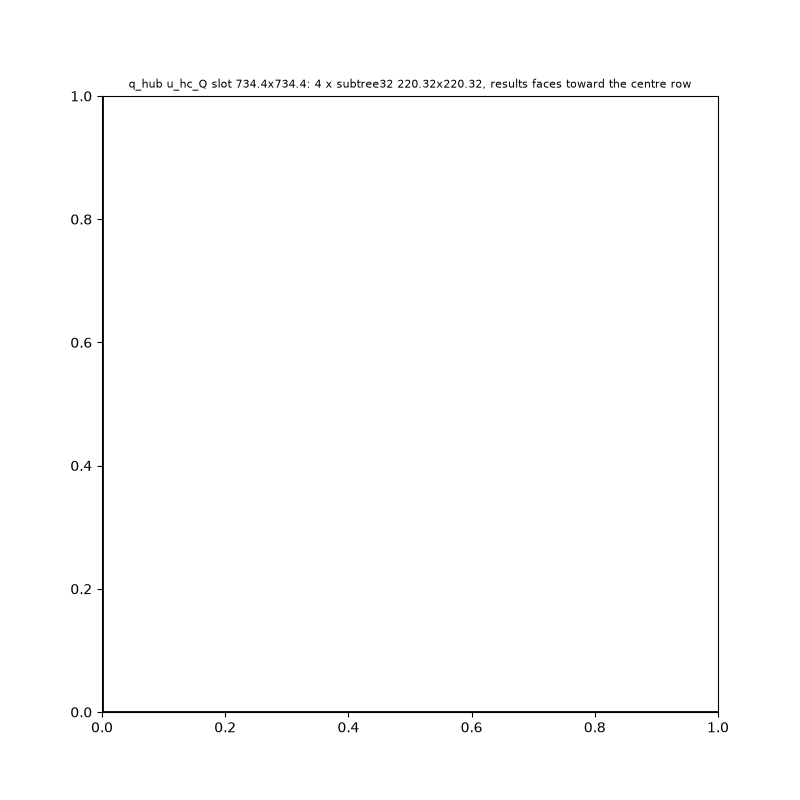
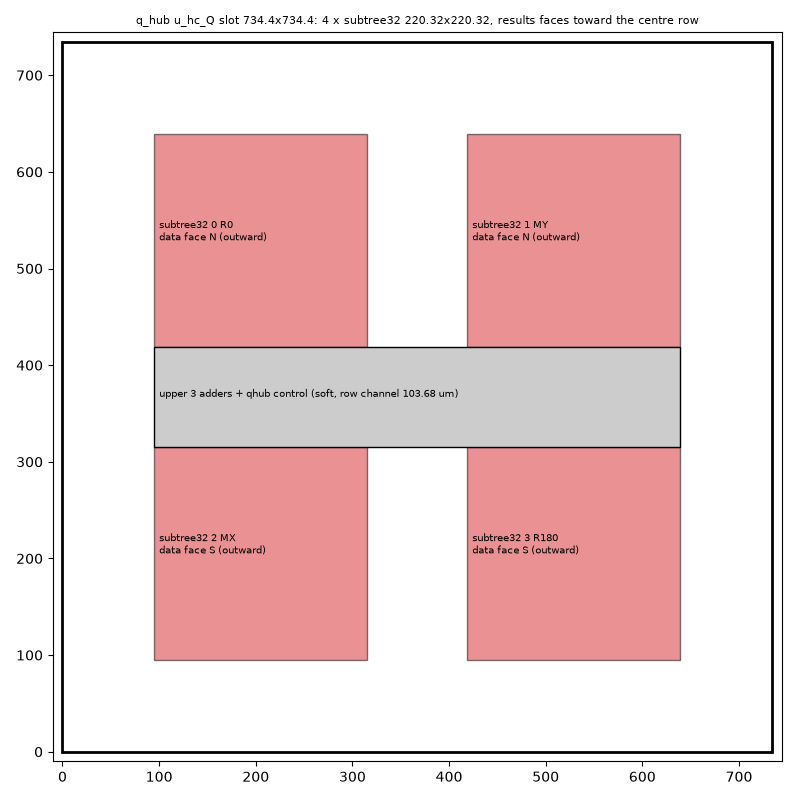
HBM-W128: CTS review renders + hold gates, DRST 3k check (gate PASS, mutants caught), TOK-HBM bind note
pair_core post-CTS hold gate FAIL -116 ps (face flop 520 ps vs macro 288 ps latency);
first_core/subtree32 PASS. No route (GEOM review pending).

diff --git a/physical/die_plan/hbm_arch_cores/w128/render_w128.py b/physical/die_plan/hbm_arch_cores/w128/render_w128.py
@@ -106,6 +106,7 @@ def main(out):
     ax.add_patch(Rectangle((m, m + S), Q - 2 * m, Q - 2 * (m + S), fc="0.8", ec="k"))
     ax.text(m + 5, Q / 2, "upper 3 adders + qhub control (soft, row channel 103.68 um)", fontsize=7)
     ax.set_title(f"q_hub u_hc_Q slot {Q}x{Q}: 4 x subtree32 {S}x{S}, results faces toward the centre row", fontsize=8)
+    ax.set_xlim(-10, Q + 10); ax.set_ylim(-10, Q + 10)
     ax.set_aspect("equal"); fig.tight_layout(); fig.savefig(out / "context_qhub.png", dpi=100); plt.close(fig)
     (out / "summary.json").write_text(json.dumps(dict(views=summary, bank_context=chk, column_height_um=round(tot, 2)), indent=1) + "\n")
     print(chk, tot)

diff --git a/results/hbm_hc128_physical_1025/README.md b/results/hbm_hc128_physical_1025/README.md
@@ -30,3 +30,31 @@ Branch `claude/hbm-cores-w128-1025`.
   - Each has two mutants: valid bit unreset, and output data bit flipped.
   - Results are in `drst_fix/drst_check.json` when collected.
 - **Views and kits** (`physical/die_plan/hbm_arch_cores/w128/`): pin tables were derived top-down from the B2o Rh bank column and q_hub slot (see `mk_w128_views.py` docstring and `geom/`). Kits use `gen_core_kit_hbm.py` with the face shell on: +1 in / +1 out cycle on every crossing.
+
+### HBM-W128 CTS review + native bind note (2026-10-25 05:09 PDT)
+
+Place+CTS (GOAL=cts, review image only, no route):
+
+| core | cells (placed) | fill of free | bins>0.8 | pin->reg p90/max um | OT_HOLD_GATE (post-CTS, pre-repair) |
+|---|---|---|---|---|---|
+| ot_hbm_hc_bank128_pair_core@ba77076d4cc8 (x120) | 122,020 (synth 152,716) | 0.49 | 0 | 6.8 / 11.0 | **FAIL** wns -116.46 ps, 1827 reg2reg ep; ports -235.7 |
+| ot_hbm_hc_bank128_pair_first_core@0c39789d46b1 (x8) | synth 139,823 | 0.32 | 0 | 7.3 / 9.7 | PASS wns -63.35, 1070 ep |
+| ot_hbm_hc_subtree32_core@3abde8dae72d (x4) | synth 135,546 | 0.28 | 0 | 8.1 / 11.9 | PASS wns -14.57, 314 ep |
+
+pair_core hold FAIL: CTS skew report shows a N-face write_addr face flop at 519.8 ps
+source latency vs SRAM macro clk 288.5 ps (231 ps skew). Structural fix before route:
+macro-clock latency balance against the 3-face (W/E/N) face-flop ring (pair_skew / macro
+insertion), not hold-buffer padding. Needs a pair_core re-kit; first_core passes with -63.
+
+DRST check: results drst_fix/drst_check.json (gate PASS; MUT_NORST/MUT_DATA caught;
+SAT tempinduct inconclusive, killed).
+
+TOK-HBM native-bind note (pin/face cycles; native NQ4/NQ2 root views NOT changed):
+- every hardened pair adds the face shell: +1 in, +1 out cycle per crossing.
+- sum chain: +2 cycles per bank hop UNLESS the native bank sets the sum-bus CPI/CPO
+  pin registers to 0 (shell flops take their place) while keeping descriptor CPI/CPO;
+  then net added = 0 per hop. Recommended.
+- write path (write_addr/data/we): +1 (shell in-flop, no matching native register to drop).
+- qhub: 4 x subtree32 (2x2 in the old 734.4^2 W64 slot + 103.68 soft centre row);
+  +2 cycles on the reduction (shell in+out) unless the qhub data pin register is dropped.
+- bank context: sum hop 129.6 um (380.16 bank) / 302.4 um (552.96 bank), both < 405 reach.
